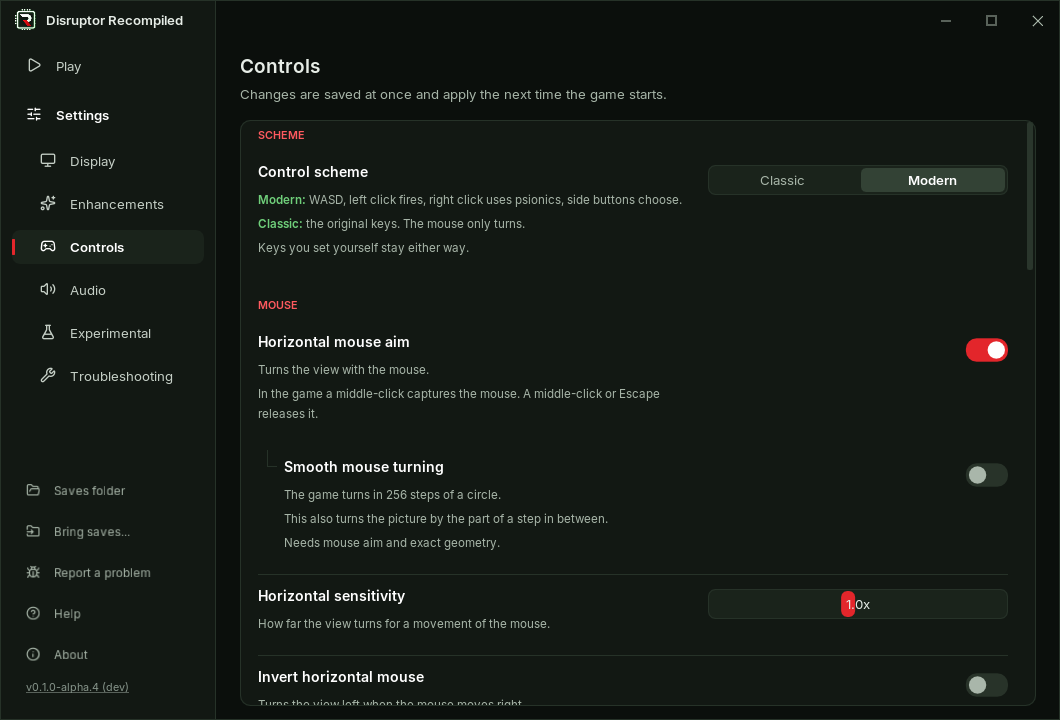
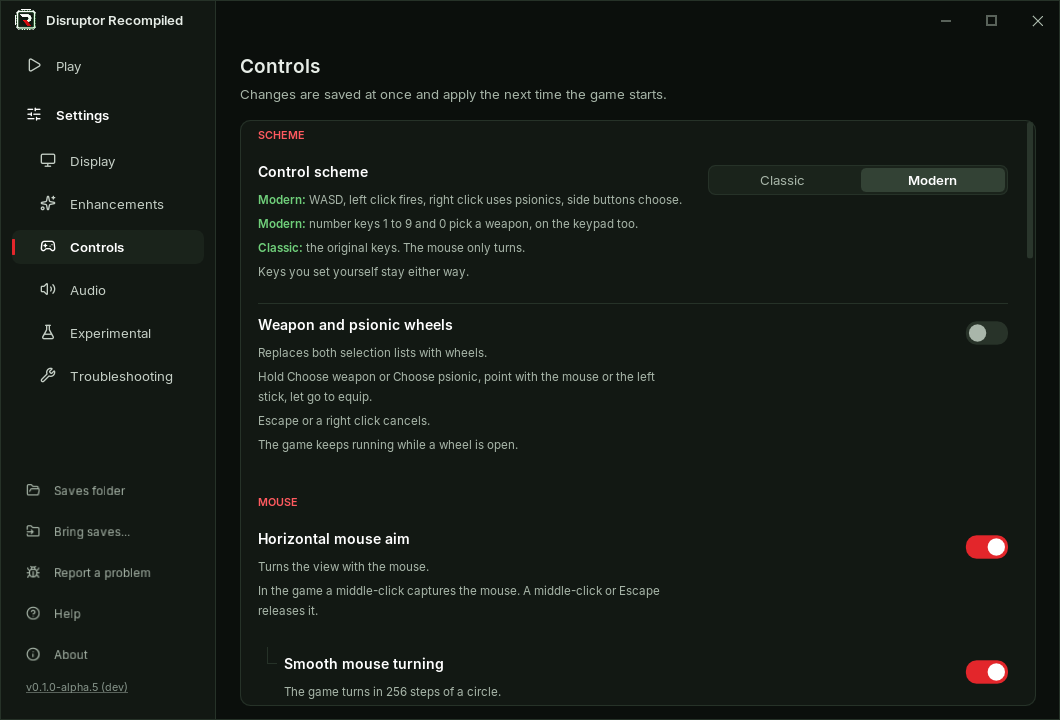
docs: date the v0.2.0-alpha.1 release and refresh the README's Controls picture, lines and badges

diff --git a/README.md b/README.md
@@ -10,8 +10,9 @@
   <a href="https://github.com/RecompTeam/DisruptorRecomp/releases"><img src="https://img.shields.io/github/v/release/RecompTeam/DisruptorRecomp?include_prereleases&label=release" alt="Release"></a>
   <a href="https://github.com/RecompTeam/DisruptorRecomp/releases"><img src="https://img.shields.io/github/downloads/RecompTeam/DisruptorRecomp/total" alt="Downloads"></a>
   <a href="https://github.com/RecompTeam/DisruptorRecomp/actions/workflows/build.yml"><img src="https://img.shields.io/github/actions/workflow/status/RecompTeam/DisruptorRecomp/build.yml?label=build" alt="Build"></a>
-  <img src="https://img.shields.io/badge/platform-Windows%20%7C%20Linux%20x64-1a231b" alt="Windows and Linux x64">
+  <a href="https://github.com/RecompTeam/DisruptorRecomp/releases"><img src="https://img.shields.io/badge/platform-Windows%20%7C%20Linux%20x64-1a231b" alt="Windows and Linux x64"></a>
   <a href="https://discord.gg/hWbFatkXpU"><img src="https://img.shields.io/badge/Discord-join-5865F2" alt="Discord"></a>
+  <a href="https://scorecard.dev/viewer/?uri=github.com/RecompTeam/DisruptorRecomp"><img src="https://img.shields.io/ossf-scorecard/github.com/RecompTeam/DisruptorRecomp?label=OpenSSF%20Scorecard" alt="OpenSSF Scorecard"></a>
 </p>
 
 <p align="center">
@@ -28,7 +29,8 @@
 
 **No game data is included.** A French, German or Japanese disc of yours can give the game its language.
 
-It needs Windows 10 or 11 x64, or Linux x64 with glibc 2.35 or newer, and a graphics driver with OpenGL 3.3. The [player's guide](docs/PLAYING.md#install) has the details.
+It needs Windows 10 or 11 x64, or Linux x64 with glibc 2.35 or newer, and a graphics driver with OpenGL 3.3.\
+The [player's guide](docs/PLAYING.md#install) has the details.
 
 [**Before and after**](docs/COMPARISONS.md): what changed from the PlayStation version, side by side.
 
@@ -36,7 +38,9 @@ It needs Windows 10 or 11 x64, or Linux x64 with glibc 2.35 or newer, and a grap
 
 Drop the disc, press Play. The image is checked byte for byte.
 
-The launcher keeps the game up to date. By default it looks for a new release at every start, downloads only what changed when it can and installs it with one click. Saves and settings stay.
+The launcher keeps the game up to date.\
+By default it looks for a new release at every start, downloads only what changed when it can and installs it with one click.\
+Saves and settings stay.
 
 <table>
   <tr>
@@ -55,7 +59,7 @@ The launcher keeps the game up to date. By default it looks for a new release at
     <td valign="top">
       <img src="docs/images/controls.png" alt="The Controls page" width="100%"><br>
       <b>Controls</b><br>
-      Modern or Classic, mouse aim and a gamepad beside the keyboard.
+      Modern or Classic, weapon and psionic wheels, mouse aim and a gamepad beside the keyboard.
     </td>
     <td valign="top">
       <img src="docs/images/keys.png" alt="The key and gamepad tables" width="100%"><br>

diff --git a/CHANGELOG.md b/CHANGELOG.md
@@ -4,6 +4,8 @@ What changed in each release. The launcher shows the section of its own version 
 
 ## v0.2.0-alpha.1
 
+Released on 2026-10-16.
+
 ### Changes
 
 - Move fast-forward from ] to B, which does nothing on the save-name screen
